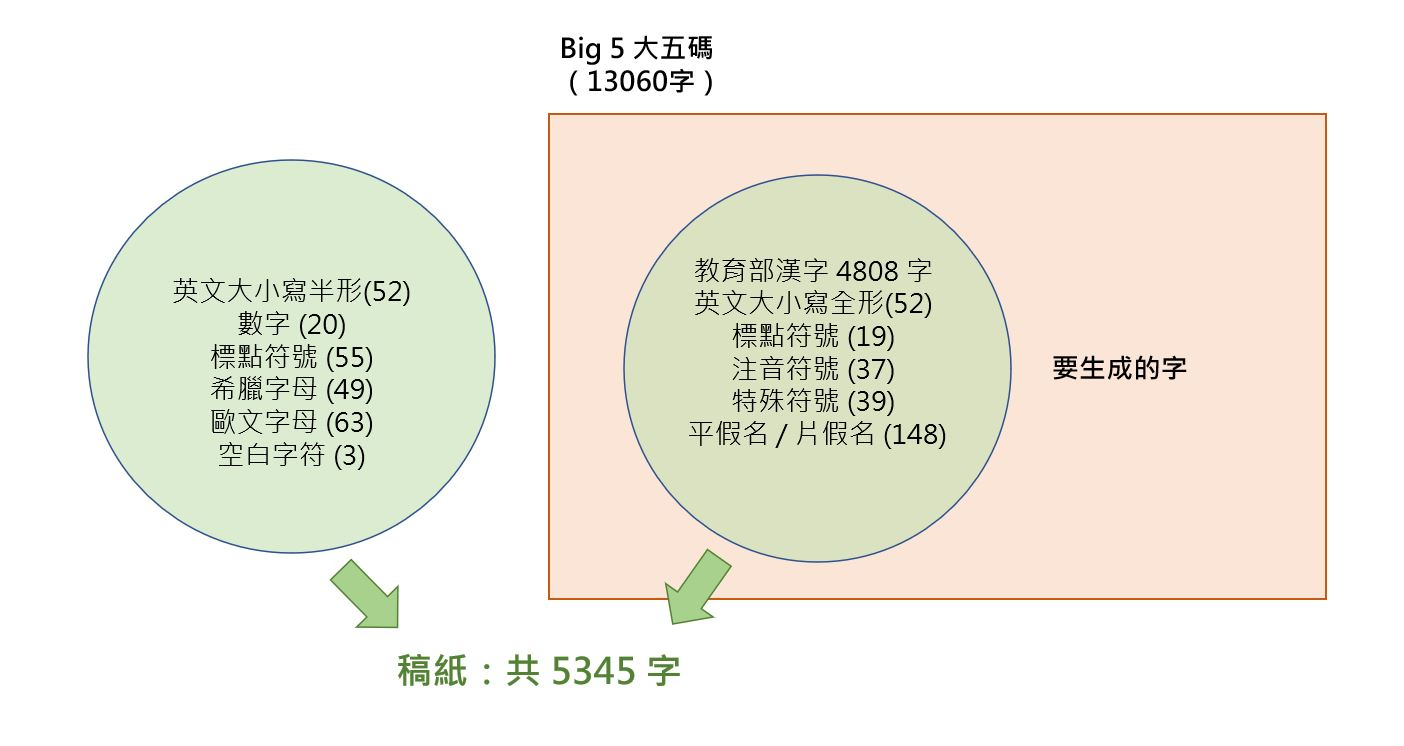
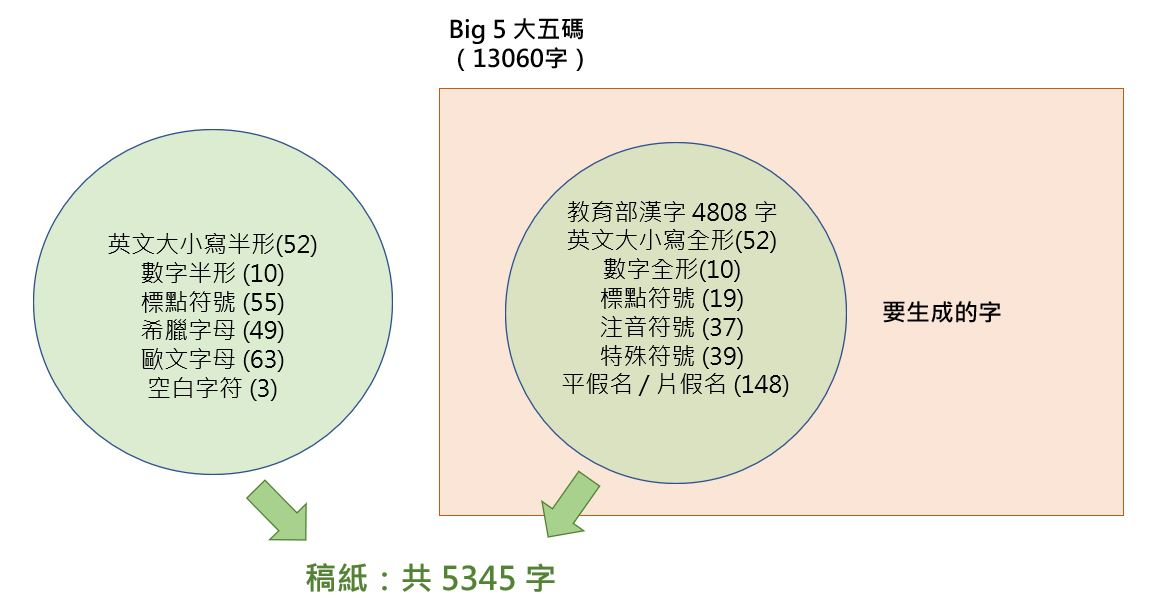
script

diff --git a/index.html b/index.html
@@ -88,46 +88,19 @@
                     <a href="chiao.ttf" class="btn btn-default btn-lg" download="chiao.ttf">
                         <span class="network-name" style="font-weight: 900;"> ct2023 製作字體下載</span>
                     </a>
-
-                    <BR><BR>
+                </div>
+                
+                <div class="col-lg-6 col-sm-6">
                     <p class="lead">zi2zi-self-attention 製作字體（2404訓練，其餘生成big5剩餘字符）</p>
                     <p class="lead">製作日期 -> 2024/06/27</p>
                     <a href="chiao.ttf" class="btn btn-default btn-lg" download="chiao.ttf">
                         <span class="network-name" style="font-weight: 900;">zi2zi-self-attention 製作字體下載</span>
                     </a>
-
-
                 </div>
 
-                <div class="col-lg-6 col-sm-6">
-                    <p class="lead">稿紙內容及生成內容</p>
-
-                    <a href="img/uands.JPG" target="_blank">
-                        <img class="img-responsive" src="img/uands.JPG" width="600">
-                    </a>
-                    <p class="lead" style="margin-top: 30px;">教育部漢字4808 </p>
-                    <p>一 丁 七 丈 三 上 下 不 丐 丑 且 丕 世 丘 丙 丞 丟 並 丫 中 串 丸 丹 主 乃 久 么 之 乍 乎 乏 乒 乓 乖 乘 乙 九 乞 也 乩 乳 乾 亂 了 予 事 二 于 云 互 五 井 亙 些 亞 亟 亡 交 亥 亦 亨 享 京 亭 亮 人 什 仁 仃 仄 仆 仇 今 介 仍 仔 仕 他 仗 付 仙 仞 仟 代 令 以 仰 仲 仳 件 任 份 仿 企 伉 伊 伍 伏 伐 休 伕 伙 伯 估 伴 伶 伸 伺 似 伽 佃 但 佇 位 低 住 佐 佑 佔 何 佗 余 佛 作 佝 佞 你 佣 佩 佬 佯 佰 佳 併 佻 佾 使 侃 來 侈 例 侍 侏 侖 供 依 侮 侯 侵 侶 便 係 促 俄 俊 俎 俏 俐 俑 俗 俘 俚 保 俞 俟 俠 信 修 俯 俱 俳 俸 俺 俾 倀 倆 倉 個 倌 倍 倏 們 倒 倔 倖 倘 候 倚 借 倡 倣 倥 倦 倨 倩 倪 倫 倭 值 偃 假 偉 偌 偎 偏 偕 做 停 健 側 偵 偶 偷 偺 偽 傀 傅 傍 傑 傖 傘 備 傢 催 傭 傯 傲 傳 債 傷 傻 傾 僅 像 僑 僕 僖 僚 僥 僧 僭 僮 僱 僵 價 僻 儀 儂 億 儈 儉 儐 儒 儔 儘 償 儡 優 儲 儷 儼 兀 允 元 兄 充 兆 兇 先 光 克 兌 免 兒 兔 兕 兗 兜 兢 入 內 全 兩 八 公 六 兮 共 兵 其 具 典 兼 冀 冉 冊 再 冑 冒 冕 冗 冠 冢 冤 冥 冬 冰 冶 冷 冽 准 凋 凌 凍 凜 凝 几 凡 凰 凱 凳 凶 凸 凹 出 函 刀 刁 刃 分 切 刈 刊 刎 刑 划 列 初 判 別 刨 利 刪 刮 到 制 刷 券 刺 刻 剁 剃 則 削 剋 剌 前 剎 剔 剖 剛 剜 剝 剩 剪 副 割 剴 創 剷 剽 剿 劃 劇 劈 劉 劍 劑 力 功 加 劣 助 努 劫 劬 劾 勁 勃 勇 勉 勒 動 勗 勘 務 勛 勝 勞 募 勢 勤 勦 勵 勸 勻 勾 勿 包 匆 匈 匍 匏 匐 匕 化 北 匙 匝 匠 匡 匣 匪 匯 匱 匹 匾 匿 區 十 千 卅 升 午 卉 半 卑 卒 卓 協 南 博 卜 卞 占 卡 卦 卮 卯 印 危 即 卵 卷 卸 卹 卻 卿 厄 厚 厝 原 厥 厭 厲 去 參 又 叉 及 友 反 叔 取 受 叛 叟 叢 口 古 句 另 叨 叩 只 叫 召 叭 叮 可 台 叱 史 右 叵 司 叼 吁 吃 各 吆 合 吉 吊 吋 同 名 后 吏 吐 向 吒 君 吝 吞 吟 吠 否 吧 吩 含 吭 吮 吱 吳 吵 吶 吸 吹 吻 吼 吾 呀 呂 呃 呆 呈 告 呎 呢 周 呱 味 呵 呶 呷 呸 呻 呼 命 咀 咄 咆 咋 和 咎 咐 咒 咕 咖 咚 咦 咨 咪 咫 咬 咯 咱 咳 咸 咻 咽 哀 品 哂 哄 哇 哈 哉 哎 員 哥 哦 哨 哩 哪 哭 哮 哲 哺 哼 唁 唆 唉 唐 唔 唧 唬 售 唯 唱 唳 唷 唸 唾 啃 啄 商 啊 問 啕 啖 啜 啞 啟 啡 啣 啤 啦 啪 啻 啼 啾 喀 喂 喃 善 喇 喉 喊 喋 喔 喘 喚 喜 喝 喟 喧 喪 喬 單 喱 喲 喳 喻 嗅 嗆 嗇 嗎 嗑 嗓 嗚 嗜 嗟 嗡 嗣 嗤 嗥 嗦 嗨 嗯 嗷 嗽 嗾 嘀 嘆 嘈 嘉 嘍 嘎 嘔 嘖 嘗 嘛 嘟 嘩 嘮 嘯 嘰 嘲 嘴 嘶 嘹 嘻 嘿 噎 噓 噗 噙 噢 噤 噥 器 噩 噪 噫 噬 噯 噱 噴 噸 噹 嚀 嚅 嚇 嚎 嚏 嚐 嚕 嚥 嚨 嚮 嚴 嚶 嚷 嚼 囀 囁 囂 囈 囉 囊 囌 囑 囚 四 回 因 囤 囪 困 固 圃 圈 國 圍 園 圓 圖 團 土 在 圬 圭 圯 地 圳 圾 址 均 坊 坍 坎 坏 坐 坑 坡 坤 坦 坩 坪 坷 坼 垂 垃 型 垠 垢 垣 垮 埂 埃 埋 城 埔 域 埠 埤 執 培 基 堂 堅 堆 堊 堡 堤 堪 堯 堰 報 場 堵 塊 塌 塑 塔 塗 塘 塚 塞 塢 填 塭 塵 塹 塾 墀 境 墅 墊 墓 墜 增 墟 墨 墮 墳 墾 壁 壅 壇 壑 壓 壕 壘 壙 壞 壟 壢 壤 壩 士 壬 壯 壹 壺 壽 夏 夔 夕 外 夙 多 夜 夠 夢 夤 夥 大 天 太 夫 夭 央 失 夷 夸 夾 奄 奇 奈 奉 奎 奏 奐 契 奔 奕 套 奘 奚 奠 奢 奧 奩 奪 奮 女 奴 奶 奸 她 好 妁 如 妃 妄 妊 妍 妒 妓 妖 妙 妝 妞 妣 妤 妥 妨 妮 妯 妳 妹 妻 妾 姆 姊 始 姍 姐 姑 姒 姓 委 姘 姚 姜 姣 姥 姦 姨 姪 姬 姻 姿 威 娃 娌 娑 娓 娘 娛 娜 娟 娠 娣 娥 娩 娶 娼 婀 婁 婆 婉 婊 婚 婢 婦 婪 婷 婿 媒 媚 媛 媲 媳 媼 媽 媾 嫁 嫂 嫉 嫌 嫖 嫗 嫘 嫡 嫣 嫦 嫩 嫵 嫻 嬉 嬋 嬌 嬝 嬤 嬪 嬰 嬴 嬸 孀 子 孑 孓 孔 孕 字 存 孚 孜 孝 孟 季 孤 孩 孫 孰 孱 孳 孵 學 孺 孽 孿 它 宅 宇 守 安 宋 完 宏 宗 官 宙 定 宛 宜 客 宣 室 宥 宦 宮 宰 害 宴 宵 家 宸 容 宿 寂 寄 寅 密 寇 富 寐 寒 寓 寞 察 寡 寢 寤 寥 實 寧 寨 審 寫 寬 寮 寵 寶 寸 寺 封 射 將 專 尉 尊 尋 對 導 小 少 尖 尚 尤 尬 就 尷 尸 尹 尺 尼 尾 尿 局 屁 居 屆 屈 屋 屍 屎 屏 屐 屑 展 屜 屠 屢 層 履 屬 屯 山 屹 岌 岐 岑 岔 岡 岩 岫 岱 岳 岷 岸 峙 峨 峪 峭 峰 島 峻 峽 崁 崆 崇 崎 崑 崔 崖 崙 崛 崢 崩 嵌 嵐 嵩 嶄 嶇 嶝 嶺 嶼 嶽 巍 巒 巔 巖 川 州 巡 巢 工 左 巧 巨 巫 差 己 已 巳 巴 巷 巽 巾 市 布 帆 希 帑 帕 帖 帘 帚 帛 帝 帥 師 席 帳 帶 帷 常 帽 幀 幅 幌 幔 幕 幗 幛 幟 幢 幣 幫 干 平 年 并 幸 幹 幻 幼 幽 幾 庇 床 序 底 庖 店 庚 府 庠 度 座 庫 庭 庵 庶 康 庸 庾 廁 廂 廈 廉 廊 廓 廖 廚 廝 廟 廠 廢 廣 廬 廳 延 廷 建 廿 弁 弄 弈 弊 式 弒 弓 弔 引 弗 弘 弛 弟 弦 弧 弩 弭 弱 張 強 弼 彆 彈 彌 彎 彗 彙 彞 形 彤 彥 彩 彪 彫 彬 彭 彰 影 彷 役 彼 彿 往 征 待 徇 很 徊 律 後 徐 徑 徒 得 徘 徙 從 御 徨 復 循 徬 微 徵 德 徹 徽 心 必 忌 忍 忖 志 忘 忙 忝 忠 快 忱 念 忽 忿 怎 怏 怒 怔 怕 怖 思 怠 怡 急 性 怨 怪 怯 怵 恃 恆 恍 恐 恕 恙 恢 恣 恤 恥 恨 恩 恪 恫 恬 恭 息 恰 恿 悄 悅 悉 悌 悍 悔 悖 悚 悟 悠 患 您 悲 悴 悵 悶 悸 悻 悼 悽 情 惆 惋 惑 惕 惘 惚 惜 惟 惠 惡 惦 惰 惱 想 惴 惶 惹 惺 惻 愀 愁 愈 愉 愎 意 愕 愚 愛 愜 感 愣 愧 愴 愾 愿 慄 慇 慈 態 慌 慍 慎 慕 慘 慚 慝 慟 慢 慣 慧 慨 慫 慮 慰 慶 慷 慼 慾 憂 憊 憎 憐 憑 憔 憚 憤 憧 憩 憫 憬 憲 憶 憾 懂 懇 懈 應 懊 懍 懣 懦 懲 懵 懶 懷 懸 懺 懼 懾 懿 戀 戈 戊 戌 戍 戎 成 我 戒 戕 或 戚 戛 戟 戡 戢 截 戮 戰 戲 戳 戴 戶 戾 房 所 扁 扇 扈 扉 手 才 扎 扒 打 扔 托 扛 扣 扭 扮 扯 扳 扶 批 扼 找 承 技 抄 抉 把 抑 抒 抓 投 抖 抗 折 抨 披 抬 抱 抵 抹 押 抽 抿 拂 拄 拆 拇 拈 拉 拋 拌 拍 拎 拐 拒 拓 拔 拖 拗 拘 拙 拚 招 拜 括 拭 拮 拯 拱 拳 拴 拷 拼 拽 拾 拿 持 指 挈 按 挑 挖 挨 挪 挫 振 挺 挽 挾 捂 捆 捉 捎 捏 捐 捕 捧 捨 捩 捫 捱 捲 捶 捷 捻 掀 掃 掄 授 掉 掌 掏 排 掖 掘 掙 掛 掠 採 探 掣 接 控 推 掩 措 掬 揀 揆 揉 揍 描 提 插 揖 揚 換 握 揣 揩 揪 揭 揮 援 損 搏 搓 搔 搖 搗 搜 搞 搪 搬 搭 搶 搽 搾 摑 摒 摔 摘 摟 摧 摩 摯 摸 摹 摺 撇 撈 撐 撒 撓 撕 撚 撞 撤 撥 撩 撫 撬 播 撮 撰 撲 撻 撼 撿 擁 擂 擄 擅 擇 擊 擋 操 擎 擒 擔 擘 據 擠 擦 擬 擰 擱 擲 擴 擺 擻 擾 攀 攆 攏 攔 攘 攙 攜 攝 攣 攤 攪 攫 攬 支 收 改 攻 放 政 故 效 敏 救 敖 敗 敘 教 敝 敞 敢 散 敦 敬 敲 整 敵 敷 數 斂 斃 文 斐 斑 斗 料 斜 斟 斡 斤 斥 斧 斫 斬 斯 新 斷 方 於 施 旁 旅 旋 旌 旎 族 旖 旗 既 日 旦 旨 早 旬 旭 旱 旺 昀 昂 昆 昌 明 昏 易 昔 星 映 春 昧 昨 昭 是 時 晃 晉 晌 晏 晒 晚 晝 晤 晦 晨 普 景 晰 晴 晶 智 暇 暈 暉 暑 暖 暗 暢 暨 暫 暮 暴 暹 曆 曉 曖 曙 曝 曠 曦 曰 曲 曳 更 曷 書 曹 曼 曾 替 最 會 月 有 朋 服 朔 朕 朗 望 朝 期 朦 朧 木 未 末 本 札 朮 朱 朴 朵 朽 杉 李 杏 材 村 杖 杜 杞 束 杭 杯 杰 東 杳 杵 杷 松 板 枇 枉 枋 析 枕 林 枚 果 枝 枯 枴 架 枸 柄 柏 某 柑 染 柔 柚 柞 查 柩 柬 柯 柱 柳 柴 柵 柿 栓 栗 校 栩 株 核 根 格 栽 桀 桂 桃 桅 框 案 桌 桐 桑 桓 桔 桶 桿 梁 梃 梅 梆 梓 梔 梗 條 梟 梢 梧 梨 梭 梯 械 梱 梳 梵 棄 棉 棋 棍 棒 棕 棗 棘 棚 棟 棠 棣 棧 森 棲 棵 棹 棺 椅 植 椎 椒 椰 楊 楓 楔 楚 楞 楠 楨 楫 業 極 楷 楹 概 榆 榔 榕 榛 榜 榨 榫 榭 榮 榴 榷 榻 槁 構 槌 槍 槐 槓 槨 槳 槽 樁 樂 樅 樊 樓 標 樞 樟 模 樣 樵 樸 樹 樺 樽 橄 橇 橋 橘 橙 機 橡 橢 橫 檀 檄 檔 檜 檢 檬 檳 檸 檻 櫂 櫃 櫓 櫚 櫛 櫝 櫥 櫻 欄 權 欖 欠 次 欣 欲 欺 欽 款 歇 歉 歌 歐 歙 歟 歡 止 正 此 步 武 歧 歪 歲 歷 歸 歹 死 歿 殃 殆 殉 殊 殖 殘 殤 殮 殯 殲 段 殷 殺 殼 殿 毀 毅 毆 毋 母 每 毒 毓 比 毗 毛 毫 毯 毽 氏 氐 民 氓 氖 氛 氟 氣 氤 氦 氧 氨 氫 氮 氯 氳 水 永 氾 汀 汁 求 汐 汕 汗 汙 汝 汞 江 池 汨 汪 汰 汲 決 汽 汾 沁 沃 沅 沈 沉 沌 沐 沒 沖 沙 沛 沫 沮 沱 河 沸 油 治 沼 沽 沾 沿 況 泄 泅 泉 泊 泌 泓 法 泗 泛 泡 波 泣 泥 注 泰 泱 泳 洋 洌 洗 洛 洞 津 洪 洱 洲 洶 活 洽 派 流 浙 浚 浦 浩 浪 浬 浮 浴 海 浸 涇 消 涉 涎 涓 涕 涮 涯 液 涵 涸 涼 淄 淅 淆 淇 淋 淌 淑 淒 淘 淙 淚 淞 淡 淤 淨 淪 淫 淮 深 淳 淵 混 淹 淺 添 清 渙 渚 減 渝 渠 渡 渣 渤 渥 渦 測 渭 港 渲 渴 游 渺 渾 湃 湊 湍 湔 湖 湘 湛 湧 湮 湯 溉 源 準 溘 溜 溝 溢 溥 溪 溫 溯 溶 溺 溼 滂 滄 滅 滇 滋 滌 滑 滓 滔 滬 滯 滲 滴 滾 滿 漁 漂 漆 漏 漓 演 漕 漠 漢 漣 漩 漪 漫 漬 漯 漱 漲 漳 漸 漾 漿 潑 潔 潘 潛 潤 潦 潭 潮 潰 潸 潺 潼 澀 澄 澆 澈 澎 澗 澡 澤 澧 澱 澳 澹 激 濁 濂 濃 濘 濛 濟 濠 濡 濤 濫 濬 濯 濱 濺 濾 瀆 瀉 瀋 瀏 瀑 瀕 瀚 瀛 瀝 瀟 瀨 瀰 瀾 灌 灑 灘 灣 灤 火 灰 灶 灸 灼 災 炊 炎 炒 炕 炙 炫 炬 炭 炮 炯 炳 炸 為 烈 烊 烏 烘 烙 烤 烹 烽 焉 焊 焙 焚 無 焦 焰 然 煉 煌 煎 煙 煜 煞 煤 煥 煦 照 煩 煬 煮 煽 熄 熊 熔 熙 熟 熨 熬 熱 熹 熾 燃 燄 燈 燉 燎 燐 燒 燕 燙 燜 營 燥 燦 燧 燬 燭 燮 燴 燻 爆 爍 爐 爛 爨 爪 爬 爭 爰 爵 父 爸 爹 爺 爻 爽 爾 牆 片 版 牌 牒 牖 牘 牙 牛 牝 牟 牠 牡 牢 牧 物 牯 牲 牴 特 牽 犀 犁 犄 犒 犖 犛 犢 犧 犬 犯 狀 狂 狄 狎 狐 狗 狙 狠 狡 狩 狷 狸 狹 狼 狽 猓 猖 猙 猛 猜 猥 猩 猴 猶 猷 猾 猿 獄 獅 獎 獐 獗 獨 獰 獲 獵 獷 獸 獺 獻 玀 玄 率 玉 王 玖 玟 玨 玩 玫 玲 玳 玷 玻 珀 珊 珍 珠 班 珮 現 球 琅 理 琉 琊 琍 琢 琥 琪 琳 琴 琵 琶 琺 琿 瑁 瑕 瑙 瑚 瑛 瑜 瑞 瑟 瑣 瑤 瑩 瑪 瑯 瑰 璃 璋 璜 璣 璦 璧 璩 環 璽 瓊 瓏 瓜 瓠 瓢 瓣 瓦 瓶 瓷 甄 甌 甕 甘 甚 甜 生 產 甥 甦 用 甩 甫 甬 甭 田 由 甲 申 男 甸 甽 界 畏 畔 留 畚 畜 畝 畢 略 畦 番 畫 異 當 畸 疆 疇 疊 疋 疏 疑 疙 疚 疝 疤 疥 疫 疲 疳 疵 疹 疼 疽 疾 病 症 痊 痔 痕 痘 痙 痛 痞 痢 痣 痰 痱 痲 痴 痺 痿 瘀 瘁 瘉 瘋 瘍 瘓 瘟 瘠 瘡 瘤 瘦 瘧 瘩 瘴 瘸 療 癆 癌 癒 癖 癘 癢 癥 癩 癬 癮 癱 癲 癸 登 發 白 百 皂 的 皆 皇 皈 皎 皓 皖 皚 皮 皰 皴 皺 皿 盂 盃 盆 盈 益 盍 盎 盒 盔 盛 盜 盞 盟 盡 監 盤 盥 盧 盪 目 盯 盲 直 相 盹 盼 盾 省 眉 看 真 眠 眨 眩 眶 眷 眸 眺 眼 眾 睏 睛 睜 睞 睡 督 睥 睦 睨 睪 睫 睬 睹 睽 睿 瞄 瞇 瞌 瞎 瞑 瞞 瞟 瞠 瞥 瞧 瞪 瞬 瞭 瞰 瞳 瞻 瞽 瞿 矇 矓 矗 矚 矛 矜 矢 矣 知 矩 短 矮 矯 石 矽 砂 砌 砍 研 砝 砥 砧 砭 砰 破 砷 砸 硃 硝 硫 硬 硯 硼 碉 碌 碎 碑 碗 碘 碟 碧 碩 碰 碳 確 碼 碾 磁 磅 磊 磋 磐 磕 磚 磨 磬 磯 磴 磷 磺 礁 礎 礙 礦 礪 礫 礬 示 社 祀 祁 祆 祇 祈 祉 祐 祕 祖 祗 祚 祝 神 祟 祠 祥 票 祭 祺 祿 禁 禍 禎 福 禦 禧 禪 禮 禱 禹 禽 禾 禿 秀 私 秉 秋 科 秒 租 秣 秤 秦 秧 秩 移 稀 稅 稈 程 稍 稔 稚 稜 稟 稠 種 稱 稷 稻 稼 稽 稿 穀 穆 穌 積 穎 穗 穡 穢 穩 穫 穴 究 穹 空 穿 突 窄 窈 窒 窕 窖 窗 窘 窟 窠 窩 窪 窮 窯 窺 竄 竅 竇 竊 立 站 竟 章 竣 童 竭 端 競 竹 竺 竽 竿 笆 笑 笙 笛 笞 笠 符 笨 第 筆 等 筋 筍 筏 筐 筒 答 策 筠 筵 筷 箋 箏 箔 箕 算 箝 管 箭 箱 箴 節 篁 範 篆 篇 築 篙 篛 篡 篤 篩 篷 篾 簇 簍 簑 簞 簡 簣 簧 簪 簫 簷 簸 簽 簾 簿 籃 籌 籍 籐 籟 籠 籤 籬 籮 籲 米 粉 粒 粗 粟 粥 粱 粳 粵 粹 粽 精 糊 糕 糖 糙 糜 糞 糟 糠 糢 糧 糯 糸 系 糾 紀 紂 約 紅 紇 紉 紊 紋 納 紐 純 紕 紗 紙 級 紛 紜 素 紡 索 紫 紮 累 細 紳 紹 紼 絀 終 絃 組 絆 結 絕 絞 絡 絢 給 絨 絮 統 絲 絹 綁 綏 綑 經 綜 綞 綠 綢 維 綰 綱 網 綴 綵 綸 綺 綻 綽 綾 綿 緇 緊 緒 緘 線 緝 緞 締 緣 編 緩 緬 緯 練 緻 縈 縊 縑 縛 縣 縫 縮 縱 縲 縷 總 績 繁 繃 繅 繆 織 繕 繚 繞 繡 繩 繪 繫 繭 繹 繼 繽 纂 續 纏 纓 纖 纜 缶 缸 缺 缽 罄 罈 罐 罔 罕 罟 罩 罪 置 罰 署 罵 罷 罹 羅 羈 羊 羋 羌 美 羔 羚 羞 群 羨 義 羯 羲 羶 羸 羹 羽 羿 翁 翅 翌 翎 習 翔 翕 翟 翠 翡 翩 翰 翱 翳 翹 翻 翼 耀 老 考 者 耆 而 耍 耐 耒 耕 耗 耘 耙 耜 耳 耶 耽 耿 聆 聊 聖 聘 聚 聞 聯 聰 聱 聲 聳 聶 職 聽 聾 聿 肄 肅 肆 肇 肉 肋 肌 肓 肖 肘 肚 肛 肝 股 肢 肥 肩 肪 肫 肯 肱 育 肴 肺 胃 胄 背 胎 胖 胚 胛 胞 胡 胤 胥 胭 胰 胱 胳 胴 胸 能 脂 脅 脆 脈 脊 脖 脣 脩 脫 脯 脹 脾 腆 腋 腎 腐 腑 腔 腕 腥 腦 腫 腮 腰 腱 腳 腸 腹 腺 腿 膀 膈 膊 膏 膚 膛 膜 膝 膠 膨 膩 膳 膺 膽 膾 膿 臀 臂 臃 臆 臉 臍 臏 臘 臚 臟 臣 臥 臧 臨 自 臬 臭 至 致 臺 臻 臼 臾 舀 舂 舅 與 興 舉 舊 舌 舍 舐 舒 舔 舛 舜 舞 舟 舢 舨 航 舫 般 舵 舶 舷 船 艇 艘 艙 艦 艮 良 艱 色 艾 芋 芍 芒 芙 芝 芟 芥 芬 芭 花 芳 芹 芻 芽 苑 苒 苓 苔 苗 苛 苜 苞 苟 苣 若 苦 苧 英 茁 茂 范 茄 茅 茉 茗 茫 茱 茲 茴 茵 茶 茸 茹 荀 草 荊 荏 荐 荒 荔 荷 荸 荻 荼 莉 莊 莎 莒 莓 莖 莘 莞 莠 莢 莫 莽 菁 菅 菊 菌 菜 菠 菩 華 菰 菱 菲 菴 菸 菽 萃 萄 萊 萋 萌 萍 萎 萬 萱 萵 萸 萼 落 葉 著 葛 葡 董 葦 葩 葫 葬 葵 葷 蒂 蒐 蒙 蒜 蒞 蒲 蒸 蒼 蒿 蓀 蓄 蓆 蓉 蓋 蓓 蓬 蓮 蓿 蔑 蔓 蔔 蔗 蔚 蔡 蔣 蔥 蔬 蔭 蔽 蕃 蕈 蕉 蕊 蕙 蕨 蕩 蕪 蕭 蕾 薄 薇 薑 薔 薛 薜 薩 薪 薯 薰 藉 藍 藏 藐 藕 藝 藤 藥 藩 藪 藹 藺 藻 蘆 蘇 蘊 蘋 蘑 蘗 蘚 蘭 蘸 蘿 虎 虐 虔 處 虛 虜 虞 號 虧 虫 虱 虹 蚊 蚌 蚓 蚣 蚤 蚩 蚪 蚯 蚱 蚵 蚶 蛀 蛄 蛆 蛇 蛋 蛔 蛙 蛛 蛟 蛤 蛭 蛹 蛻 蛾 蜀 蜂 蜃 蜇 蜈 蜓 蜘 蜜 蜢 蜥 蜴 蜻 蜿 蝌 蝕 蝗 蝙 蝠 蝦 蝨 蝴 蝶 蝸 螂 螃 融 螞 螟 螢 螫 螳 螺 螻 蟀 蟆 蟈 蟋 蟑 蟒 蟬 蟯 蟲 蟹 蟻 蠅 蠍 蠔 蠕 蠟 蠡 蠢 蠣 蠱 蠶 蠹 蠻 血 行 衍 術 街 衙 衛 衝 衡 衢 衣 表 衫 衰 衷 袁 袂 袈 袋 袍 袒 袖 袞 被 袱 裁 裂 裊 裔 裕 裘 裙 補 裝 裟 裡 裨 裳 裴 裸 裹 製 褂 複 褐 褒 褓 褚 褥 褪 褫 褲 褶 褸 褻 襄 襖 襟 襠 襤 襪 襯 襲 西 要 覃 覆 見 規 覓 視 覦 親 覬 覲 覺 覽 觀 角 解 觴 觸 言 訂 訃 計 訊 訌 討 訐 訓 訕 訖 託 記 訛 訝 訟 訣 訥 訪 設 許 訴 診 註 証 詁 詆 詐 詔 評 詛 詞 詠 詢 詣 試 詩 詫 詬 詭 詮 詰 話 該 詳 詹 詼 誅 誇 誌 認 誑 誓 誕 誘 語 誠 誡 誣 誤 誥 誦 誨 說 誰 課 誼 調 諂 諄 談 諉 請 諍 諒 論 諜 諦 諧 諫 諭 諮 諱 諷 諸 諺 諾 謀 謁 謂 謄 謊 謎 謗 謙 講 謝 謠 謨 謬 謹 譁 證 譎 譏 識 譚 譜 警 譬 譯 議 譴 護 譽 讀 變 讒 讓 讖 讚 谷 谿 豁 豆 豈 豉 豌 豎 豐 豔 豕 豚 象 豢 豪 豫 豬 豹 豺 貂 貉 貊 貌 貍 貓 貝 貞 負 財 貢 貧 貨 販 貪 貫 責 貯 貲 貳 貴 貶 買 貸 費 貼 貽 貿 賀 賁 賂 賃 賄 賅 資 賈 賊 賑 賒 賓 賜 賞 賠 賢 賣 賤 賦 質 賬 賭 賴 賺 購 賽 贅 贈 贊 贍 贏 贓 贖 贗 贛 赤 赦 赧 赫 赭 走 赳 赴 起 趁 超 越 趕 趙 趟 趣 趨 足 趴 趾 跆 跋 跌 跎 跑 跚 跛 距 跟 跡 跨 跪 路 跳 跺 跼 踏 踐 踝 踟 踢 踩 踫 踱 踴 踵 踹 蹂 蹄 蹈 蹉 蹊 蹋 蹙 蹣 蹤 蹦 蹬 蹲 蹶 蹺 蹼 躁 躂 躅 躇 躉 躊 躍 躑 躡 躪 身 躬 躲 躺 軀 車 軋 軌 軍 軒 軔 軛 軟 軸 軻 軼 軾 較 載 輊 輒 輓 輔 輕 輛 輜 輝 輟 輦 輩 輪 輯 輸 輻 輾 輿 轂 轄 轅 轉 轍 轎 轔 轟 轡 辛 辜 辟 辣 辦 辨 辭 辮 辯 辰 辱 農 迂 迄 迅 迆 迎 近 返 迢 迥 迦 迪 迫 迭 述 迴 迷 迺 追 退 送 逃 逅 逆 逍 透 逐 途 逕 逖 逗 這 通 逛 逝 逞 速 造 逢 連 逮 週 進 逵 逸 逼 逾 遁 遂 遇 遊 運 遍 過 遏 遐 遑 道 達 違 遘 遙 遜 遞 遠 遣 遨 適 遭 遮 遲 遴 遵 遷 選 遺 遼 遽 避 邀 邁 邂 還 邇 邊 邏 邐 邑 邕 邢 那 邦 邪 邱 邵 邸 郁 郊 郎 郡 部 郭 郵 都 鄂 鄉 鄒 鄙 鄧 鄭 鄰 鄱 鄹 酉 酊 酋 酌 配 酒 酗 酣 酥 酩 酪 酬 酵 酷 酸 醃 醇 醉 醋 醒 醜 醞 醣 醫 醬 醺 釀 釁 采 釉 釋 里 重 野 量 釐 金 釗 釘 釜 針 釣 釦 釧 釵 鈉 鈍 鈐 鈔 鈕 鈞 鈣 鈴 鈷 鈸 鈽 鈾 鉀 鉋 鉑 鉗 鉛 鉤 鉸 鉻 銀 銅 銓 銖 銘 銜 銬 銳 銷 銻 銼 鋁 鋅 鋒 鋤 鋪 鋸 鋼 錄 錐 錘 錚 錠 錢 錦 錨 錫 錯 錳 錶 鍊 鍋 鍍 鍛 鍥 鍬 鍰 鍵 鍾 鎂 鎊 鎔 鎖 鎢 鎮 鎳 鏃 鏈 鏍 鏑 鏖 鏗 鏘 鏜 鏝 鏟 鏡 鏢 鏤 鏽 鐃 鐘 鐮 鐲 鐳 鐵 鐸 鐺 鑄 鑑 鑒 鑠 鑣 鑰 鑲 鑼 鑽 鑾 鑿 長 門 閂 閃 閉 開 閏 閑 閒 間 閔 閘 閡 閣 閤 閥 閨 閩 閭 閱 閻 闆 闈 闊 闋 闌 闐 闔 闖 關 闡 闢 阜 阡 阪 阮 阱 防 阻 阿 陀 附 陋 陌 降 限 陛 陝 陡 院 陣 除 陪 陰 陲 陳 陴 陵 陶 陷 陸 陽 隅 隆 隊 隋 隍 階 隔 隕 隘 隙 際 障 隧 隨 險 隱 隴 隸 隻 雀 雁 雄 雅 集 雇 雉 雋 雌 雍 雕 雖 雙 雛 雜 雞 離 難 雨 雪 雯 雲 零 雷 雹 電 需 霄 霆 震 霉 霍 霎 霏 霑 霓 霖 霜 霞 霧 霪 露 霸 霹 霽 霾 靂 靄 靈 青 靖 靛 靜 非 靠 靡 面 靦 靨 革 靴 靶 靼 鞅 鞋 鞍 鞏 鞘 鞠 鞣 鞦 鞭 韁 韃 韆 韋 韌 韓 韜 韭 音 韶 韻 響 頁 頂 頃 項 順 須 頊 頌 預 頑 頒 頓 頗 領 頡 頤 頭 頰 頷 頸 頹 頻 顆 題 額 顎 顏 顓 願 顛 類 顧 顫 顯 顰 顱 風 颯 颱 颳 颶 颺 颼 飄 飛 食 飢 飧 飩 飪 飭 飯 飲 飴 飼 飽 飾 餃 餅 餉 養 餌 餐 餒 餓 餘 餛 餞 餡 館 餵 餽 餾 餿 饅 饑 饒 饜 饞 首 香 馥 馨 馬 馭 馮 馱 馳 馴 駁 駐 駑 駒 駕 駙 駛 駝 駟 駢 駭 駱 駿 騁 騎 騖 騙 騫 騰 騷 騾 驀 驃 驅 驕 驗 驚 驛 驟 驢 驥 驪 骨 骯 骰 骷 骸 骼 髏 髒 髓 體 高 髦 髭 髮 髯 髻 鬃 鬆 鬍 鬚 鬢 鬥 鬧 鬨 鬱 鬲 鬼 魁 魂 魄 魅 魏 魔 魘 魚 魯 魷 鮑 鮪 鮫 鮮 鯉 鯊 鯧 鯨 鯽 鰍 鰓 鰥 鰭 鰱 鰻 鰾 鱉 鱔 鱖 鱗 鱷 鱸 鳥 鳩 鳳 鳴 鳶 鴆 鴉 鴒 鴕 鴛 鴣 鴦 鴨 鴻 鴿 鵑 鵝 鵠 鵡 鵪 鵬 鵲 鶉 鶯 鶴 鷂 鷓 鷗 鷥 鷹 鷺 鸚 鸞 鹹 鹼 鹽 鹿 麂 麋 麒 麓 麗 麝 麟 麥 麩 麴 麵 麻 麼 麾 黃 黍 黎 黏 黑 黔 默 黛 黜 黝 點 黠 黨 黯 黴 黷 鼇 鼎 鼓 鼕 鼙 鼠 鼬 鼴 鼻 鼾 齊 齋 齒 齜 齟 齡 齣 齦 齪 齬 齲 齷 龍 龐 龔 龜 </p>
-                    <p class="lead" style="margin-top: 30px;">平假名</p>
-                    <p>あ い う え お か が き ぎ く ぐ け げ こ ご さ ざ し じ す ず せ ぜ そ ぞ た だ ち ぢ つ づ て で と ど な に ぬ ね の は ば ぱ ひ び ぴ ふ ぶ ぷ へ べ ぺ ほ ぼ ぽ ま み む め も ゃ や ゅ ゆ ょ よ ら り る れ ろ わ を ん
-                    <p class="lead" style="margin-top: 30px;">片假名</p>
-                    <p>ア イ ウ エ オ カ ガ キ ギ ク グ ケ ゲ コ ゴ サ ザ シ ジ ス ズ セ ゼ ソ ゾ タ ダ チ ヂ ツ ヅ テ デ ト ド ナ ニ ヌ ネ ノ ハ バ パ ヒ ビ ピ フ ブ プ ヘ ベ ペ ホ ボ ポ マ ミ ム メ モ ャ ヤ ュ ユ ョ ヨ ラ リ ル レ ロ ワ ヲ ン
-                    <p class="lead" style="margin-top: 30px;">注音符號</p>
-                    <p>ㄅ ㄆ ㄇ ㄈ ㄉ ㄊ ㄋ ㄌ ㄍ ㄎ ㄏ ㄐ ㄑ ㄒ ㄓ ㄔ ㄕ ㄖ ㄗ ㄘ ㄙ ㄚ ㄛ ㄜ ㄝ ㄞ ㄟ ㄠ ㄡ ㄢ ㄣ ㄤ ㄥ ㄦ ㄧ ㄨ ㄩ</p>
-                    <p class="lead" style="margin-top: 30px;">希臘字母</p>
-                    <p>Α Β Γ Δ Ε Ζ Η Θ Ι Κ Λ Μ Ν Ξ Ο Π Ρ Σ Τ Υ Φ Χ Ψ Ω α β γ δ ε ζ η θ ι κ λ μ ν ξ ο π ρ ς σ τ υ φ χ ψ ω</p>
-                    <p class="lead" style="margin-top: 30px;">特殊符號</p>
-                    <p>¡ ¢ £ ¤ ¥ ¦ § ¨ © ª « ¬  ® ¯ ° ± ² ³ ´ µ ¶ · ¸ ¹ º » ¼ ½ ¾ ¿ — ’ … ≠ ≦ ≧ ─ │ 
-                    <p class="lead" style="margin-top: 30px;">英文字母</p>  
-                    <p>A B C D E F G H I J K L M N O P Q R S T U V W X Y Z a b c d e f g h i j k l m n o p q r s t u v w x y z Ａ Ｂ Ｃ Ｄ Ｅ Ｆ Ｇ Ｈ Ｉ Ｊ Ｋ Ｌ Ｍ Ｎ Ｏ Ｐ Ｑ Ｒ Ｓ Ｔ Ｕ Ｖ Ｗ Ｘ Ｙ Ｚ　ａ ｂ ｃ ｄ ｅ ｆ ｇ ｈ ｉ ｊ ｋ ｌ ｍ ｎ ｏ ｐ ｑ ｒ ｓ ｔ ｕ ｖ ｗ ｘ ｙ ｚ</p> 
-                    <p class="lead" style="margin-top: 30px;">數字</p> 
-                    <p>0 1 2 3 4 5 6 7 8 9 ０ １ ２ ３ ４ ５ ６ ７ ８ ９</p>
-                    <p class="lead" style="margin-top: 30px;">標點符號</p> 
-                    <p>! " # $ % & ' ( ) * + , - . / : ; < = > ? @ [ \ ] ^ _ ` { | } ~ 、 。 〈 〉 《 》 「 」 『 』 ｛ ｜ ｝ ～ ︿ ﹏ ！ ＂ ＃ ＄ ％ ＆ （ ） ＊ ＋ ， － ． ／  ： ； ＜ ＝ ＞ ？ ＠</p>
-
-                </div>
             </div>
         </div>
-    </div>
+    </div>    
 
 
     <!-- Page Content -->
@@ -319,7 +292,58 @@
         <!-- /.container -->
     </div>
 
-	
+
+
+	<a name="demo6"></a>
+    <div class="content-section-a">
+        <div class="container">
+            <hr class="section-heading-spacer">
+            <h2 class="section-heading">稿紙內容及生成內容</h2>
+            <div class="row">
+
+                <div class="col-lg-12 col-sm-6">
+
+                    <a href="img/uands.JPG" target="_blank">
+                        <img class="img-responsive" src="img/uands.JPG" width="600">
+                    </a>
+                    
+                    <p class="lead" style="margin-top: 30px;">平假名</p>
+                    <p>あ い う え お か が き ぎ く ぐ け げ こ ご さ ざ し じ す ず せ ぜ そ ぞ た だ ち ぢ つ づ て で と ど な に ぬ ね の は ば ぱ ひ び ぴ ふ ぶ ぷ へ べ ぺ ほ ぼ ぽ ま み む め も ゃ や ゅ ゆ ょ よ ら り る れ ろ わ を ん
+
+                    <p class="lead" style="margin-top: 30px;">片假名</p>
+                    <p>ア イ ウ エ オ カ ガ キ ギ ク グ ケ ゲ コ ゴ サ ザ シ ジ ス ズ セ ゼ ソ ゾ タ ダ チ ヂ ツ ヅ テ デ ト ド ナ ニ ヌ ネ ノ ハ バ パ ヒ ビ ピ フ ブ プ ヘ ベ ペ ホ ボ ポ マ ミ ム メ モ ャ ヤ ュ ユ ョ ヨ ラ リ ル レ ロ ワ ヲ ン
+
+                    <p class="lead" style="margin-top: 30px;">注音符號</p>
+                    <p>ㄅ ㄆ ㄇ ㄈ ㄉ ㄊ ㄋ ㄌ ㄍ ㄎ ㄏ ㄐ ㄑ ㄒ ㄓ ㄔ ㄕ ㄖ ㄗ ㄘ ㄙ ㄚ ㄛ ㄜ ㄝ ㄞ ㄟ ㄠ ㄡ ㄢ ㄣ ㄤ ㄥ ㄦ ㄧ ㄨ ㄩ</p>
+
+                    <p class="lead" style="margin-top: 30px;">希臘字母</p>
+                    <p>Α Β Γ Δ Ε Ζ Η Θ Ι Κ Λ Μ Ν Ξ Ο Π Ρ Σ Τ Υ Φ Χ Ψ Ω α β γ δ ε ζ η θ ι κ λ μ ν ξ ο π ρ ς σ τ υ φ χ ψ ω</p>
+
+                    <p class="lead" style="margin-top: 30px;">特殊符號</p>
+                    <p>¡ ¢ £ ¤ ¥ ¦ § ¨ © ª « ¬  ® ¯ ° ± ² ³ ´ µ ¶ · ¸ ¹ º » ¼ ½ ¾ ¿ — ’ … ≠ ≦ ≧ ─ │ 
+
+                    <p class="lead" style="margin-top: 30px;">英文字母全形</p> 
+                    <p> Ａ Ｂ Ｃ Ｄ Ｅ Ｆ Ｇ Ｈ Ｉ Ｊ Ｋ Ｌ Ｍ Ｎ Ｏ Ｐ Ｑ Ｒ Ｓ Ｔ Ｕ Ｖ Ｗ Ｘ Ｙ Ｚ　ａ ｂ ｃ ｄ ｅ ｆ ｇ ｈ ｉ ｊ ｋ ｌ ｍ ｎ ｏ ｐ ｑ ｒ ｓ ｔ ｕ ｖ ｗ ｘ ｙ ｚ</p>
+                    <p class="lead" style="margin-top: 30px;">英文字母半形</p>  
+                    <p>A B C D E F G H I J K L M N O P Q R S T U V W X Y Z a b c d e f g h i j k l m n o p q r s t u v w x y z</p> 
+
+                    <p class="lead" style="margin-top: 30px;">數字全形</p>
+                    <p> ０ １ ２ ３ ４ ５ ６ ７ ８ ９</p>
+                    <p class="lead" style="margin-top: 30px;">數字半形</p>  
+                    <p>0 1 2 3 4 5 6 7 8 9</p>
+
+                    <p class="lead" style="margin-top: 30px;">標點符號全形</p>
+                    <p>︿ ﹏ ！ ＂ ＃ ＄ ％ ＆ （ ） ＊ ＋ ， － ． ／： ； ＜ ＝ ＞ ？ ＠  ［ ＼ ］ ＿ ｛ ｜ ｝ ～</p>
+                    <p class="lead" style="margin-top: 30px;">標點符號半形</p>  
+                    <p>! " # $ % & ' ( ) * + , - . / : ; < = > ? @ [ \ ] ^ _ ` { | } ~ 、 。 〈 〉 《 》 「 」 『 』 </p>
+
+                    <p class="lead" style="margin-top: 30px;">教育部漢字4808 </p>
+                    <p>一 丁 七 丈 三 上 下 不 丐 丑 且 丕 世 丘 丙 丞 丟 並 丫 中 串 丸 丹 主 乃 久 么 之 乍 乎 乏 乒 乓 乖 乘 乙 九 乞 也 乩 乳 乾 亂 了 予 事 二 于 云 互 五 井 亙 些 亞 亟 亡 交 亥 亦 亨 享 京 亭 亮 人 什 仁 仃 仄 仆 仇 今 介 仍 仔 仕 他 仗 付 仙 仞 仟 代 令 以 仰 仲 仳 件 任 份 仿 企 伉 伊 伍 伏 伐 休 伕 伙 伯 估 伴 伶 伸 伺 似 伽 佃 但 佇 位 低 住 佐 佑 佔 何 佗 余 佛 作 佝 佞 你 佣 佩 佬 佯 佰 佳 併 佻 佾 使 侃 來 侈 例 侍 侏 侖 供 依 侮 侯 侵 侶 便 係 促 俄 俊 俎 俏 俐 俑 俗 俘 俚 保 俞 俟 俠 信 修 俯 俱 俳 俸 俺 俾 倀 倆 倉 個 倌 倍 倏 們 倒 倔 倖 倘 候 倚 借 倡 倣 倥 倦 倨 倩 倪 倫 倭 值 偃 假 偉 偌 偎 偏 偕 做 停 健 側 偵 偶 偷 偺 偽 傀 傅 傍 傑 傖 傘 備 傢 催 傭 傯 傲 傳 債 傷 傻 傾 僅 像 僑 僕 僖 僚 僥 僧 僭 僮 僱 僵 價 僻 儀 儂 億 儈 儉 儐 儒 儔 儘 償 儡 優 儲 儷 儼 兀 允 元 兄 充 兆 兇 先 光 克 兌 免 兒 兔 兕 兗 兜 兢 入 內 全 兩 八 公 六 兮 共 兵 其 具 典 兼 冀 冉 冊 再 冑 冒 冕 冗 冠 冢 冤 冥 冬 冰 冶 冷 冽 准 凋 凌 凍 凜 凝 几 凡 凰 凱 凳 凶 凸 凹 出 函 刀 刁 刃 分 切 刈 刊 刎 刑 划 列 初 判 別 刨 利 刪 刮 到 制 刷 券 刺 刻 剁 剃 則 削 剋 剌 前 剎 剔 剖 剛 剜 剝 剩 剪 副 割 剴 創 剷 剽 剿 劃 劇 劈 劉 劍 劑 力 功 加 劣 助 努 劫 劬 劾 勁 勃 勇 勉 勒 動 勗 勘 務 勛 勝 勞 募 勢 勤 勦 勵 勸 勻 勾 勿 包 匆 匈 匍 匏 匐 匕 化 北 匙 匝 匠 匡 匣 匪 匯 匱 匹 匾 匿 區 十 千 卅 升 午 卉 半 卑 卒 卓 協 南 博 卜 卞 占 卡 卦 卮 卯 印 危 即 卵 卷 卸 卹 卻 卿 厄 厚 厝 原 厥 厭 厲 去 參 又 叉 及 友 反 叔 取 受 叛 叟 叢 口 古 句 另 叨 叩 只 叫 召 叭 叮 可 台 叱 史 右 叵 司 叼 吁 吃 各 吆 合 吉 吊 吋 同 名 后 吏 吐 向 吒 君 吝 吞 吟 吠 否 吧 吩 含 吭 吮 吱 吳 吵 吶 吸 吹 吻 吼 吾 呀 呂 呃 呆 呈 告 呎 呢 周 呱 味 呵 呶 呷 呸 呻 呼 命 咀 咄 咆 咋 和 咎 咐 咒 咕 咖 咚 咦 咨 咪 咫 咬 咯 咱 咳 咸 咻 咽 哀 品 哂 哄 哇 哈 哉 哎 員 哥 哦 哨 哩 哪 哭 哮 哲 哺 哼 唁 唆 唉 唐 唔 唧 唬 售 唯 唱 唳 唷 唸 唾 啃 啄 商 啊 問 啕 啖 啜 啞 啟 啡 啣 啤 啦 啪 啻 啼 啾 喀 喂 喃 善 喇 喉 喊 喋 喔 喘 喚 喜 喝 喟 喧 喪 喬 單 喱 喲 喳 喻 嗅 嗆 嗇 嗎 嗑 嗓 嗚 嗜 嗟 嗡 嗣 嗤 嗥 嗦 嗨 嗯 嗷 嗽 嗾 嘀 嘆 嘈 嘉 嘍 嘎 嘔 嘖 嘗 嘛 嘟 嘩 嘮 嘯 嘰 嘲 嘴 嘶 嘹 嘻 嘿 噎 噓 噗 噙 噢 噤 噥 器 噩 噪 噫 噬 噯 噱 噴 噸 噹 嚀 嚅 嚇 嚎 嚏 嚐 嚕 嚥 嚨 嚮 嚴 嚶 嚷 嚼 囀 囁 囂 囈 囉 囊 囌 囑 囚 四 回 因 囤 囪 困 固 圃 圈 國 圍 園 圓 圖 團 土 在 圬 圭 圯 地 圳 圾 址 均 坊 坍 坎 坏 坐 坑 坡 坤 坦 坩 坪 坷 坼 垂 垃 型 垠 垢 垣 垮 埂 埃 埋 城 埔 域 埠 埤 執 培 基 堂 堅 堆 堊 堡 堤 堪 堯 堰 報 場 堵 塊 塌 塑 塔 塗 塘 塚 塞 塢 填 塭 塵 塹 塾 墀 境 墅 墊 墓 墜 增 墟 墨 墮 墳 墾 壁 壅 壇 壑 壓 壕 壘 壙 壞 壟 壢 壤 壩 士 壬 壯 壹 壺 壽 夏 夔 夕 外 夙 多 夜 夠 夢 夤 夥 大 天 太 夫 夭 央 失 夷 夸 夾 奄 奇 奈 奉 奎 奏 奐 契 奔 奕 套 奘 奚 奠 奢 奧 奩 奪 奮 女 奴 奶 奸 她 好 妁 如 妃 妄 妊 妍 妒 妓 妖 妙 妝 妞 妣 妤 妥 妨 妮 妯 妳 妹 妻 妾 姆 姊 始 姍 姐 姑 姒 姓 委 姘 姚 姜 姣 姥 姦 姨 姪 姬 姻 姿 威 娃 娌 娑 娓 娘 娛 娜 娟 娠 娣 娥 娩 娶 娼 婀 婁 婆 婉 婊 婚 婢 婦 婪 婷 婿 媒 媚 媛 媲 媳 媼 媽 媾 嫁 嫂 嫉 嫌 嫖 嫗 嫘 嫡 嫣 嫦 嫩 嫵 嫻 嬉 嬋 嬌 嬝 嬤 嬪 嬰 嬴 嬸 孀 子 孑 孓 孔 孕 字 存 孚 孜 孝 孟 季 孤 孩 孫 孰 孱 孳 孵 學 孺 孽 孿 它 宅 宇 守 安 宋 完 宏 宗 官 宙 定 宛 宜 客 宣 室 宥 宦 宮 宰 害 宴 宵 家 宸 容 宿 寂 寄 寅 密 寇 富 寐 寒 寓 寞 察 寡 寢 寤 寥 實 寧 寨 審 寫 寬 寮 寵 寶 寸 寺 封 射 將 專 尉 尊 尋 對 導 小 少 尖 尚 尤 尬 就 尷 尸 尹 尺 尼 尾 尿 局 屁 居 屆 屈 屋 屍 屎 屏 屐 屑 展 屜 屠 屢 層 履 屬 屯 山 屹 岌 岐 岑 岔 岡 岩 岫 岱 岳 岷 岸 峙 峨 峪 峭 峰 島 峻 峽 崁 崆 崇 崎 崑 崔 崖 崙 崛 崢 崩 嵌 嵐 嵩 嶄 嶇 嶝 嶺 嶼 嶽 巍 巒 巔 巖 川 州 巡 巢 工 左 巧 巨 巫 差 己 已 巳 巴 巷 巽 巾 市 布 帆 希 帑 帕 帖 帘 帚 帛 帝 帥 師 席 帳 帶 帷 常 帽 幀 幅 幌 幔 幕 幗 幛 幟 幢 幣 幫 干 平 年 并 幸 幹 幻 幼 幽 幾 庇 床 序 底 庖 店 庚 府 庠 度 座 庫 庭 庵 庶 康 庸 庾 廁 廂 廈 廉 廊 廓 廖 廚 廝 廟 廠 廢 廣 廬 廳 延 廷 建 廿 弁 弄 弈 弊 式 弒 弓 弔 引 弗 弘 弛 弟 弦 弧 弩 弭 弱 張 強 弼 彆 彈 彌 彎 彗 彙 彞 形 彤 彥 彩 彪 彫 彬 彭 彰 影 彷 役 彼 彿 往 征 待 徇 很 徊 律 後 徐 徑 徒 得 徘 徙 從 御 徨 復 循 徬 微 徵 德 徹 徽 心 必 忌 忍 忖 志 忘 忙 忝 忠 快 忱 念 忽 忿 怎 怏 怒 怔 怕 怖 思 怠 怡 急 性 怨 怪 怯 怵 恃 恆 恍 恐 恕 恙 恢 恣 恤 恥 恨 恩 恪 恫 恬 恭 息 恰 恿 悄 悅 悉 悌 悍 悔 悖 悚 悟 悠 患 您 悲 悴 悵 悶 悸 悻 悼 悽 情 惆 惋 惑 惕 惘 惚 惜 惟 惠 惡 惦 惰 惱 想 惴 惶 惹 惺 惻 愀 愁 愈 愉 愎 意 愕 愚 愛 愜 感 愣 愧 愴 愾 愿 慄 慇 慈 態 慌 慍 慎 慕 慘 慚 慝 慟 慢 慣 慧 慨 慫 慮 慰 慶 慷 慼 慾 憂 憊 憎 憐 憑 憔 憚 憤 憧 憩 憫 憬 憲 憶 憾 懂 懇 懈 應 懊 懍 懣 懦 懲 懵 懶 懷 懸 懺 懼 懾 懿 戀 戈 戊 戌 戍 戎 成 我 戒 戕 或 戚 戛 戟 戡 戢 截 戮 戰 戲 戳 戴 戶 戾 房 所 扁 扇 扈 扉 手 才 扎 扒 打 扔 托 扛 扣 扭 扮 扯 扳 扶 批 扼 找 承 技 抄 抉 把 抑 抒 抓 投 抖 抗 折 抨 披 抬 抱 抵 抹 押 抽 抿 拂 拄 拆 拇 拈 拉 拋 拌 拍 拎 拐 拒 拓 拔 拖 拗 拘 拙 拚 招 拜 括 拭 拮 拯 拱 拳 拴 拷 拼 拽 拾 拿 持 指 挈 按 挑 挖 挨 挪 挫 振 挺 挽 挾 捂 捆 捉 捎 捏 捐 捕 捧 捨 捩 捫 捱 捲 捶 捷 捻 掀 掃 掄 授 掉 掌 掏 排 掖 掘 掙 掛 掠 採 探 掣 接 控 推 掩 措 掬 揀 揆 揉 揍 描 提 插 揖 揚 換 握 揣 揩 揪 揭 揮 援 損 搏 搓 搔 搖 搗 搜 搞 搪 搬 搭 搶 搽 搾 摑 摒 摔 摘 摟 摧 摩 摯 摸 摹 摺 撇 撈 撐 撒 撓 撕 撚 撞 撤 撥 撩 撫 撬 播 撮 撰 撲 撻 撼 撿 擁 擂 擄 擅 擇 擊 擋 操 擎 擒 擔 擘 據 擠 擦 擬 擰 擱 擲 擴 擺 擻 擾 攀 攆 攏 攔 攘 攙 攜 攝 攣 攤 攪 攫 攬 支 收 改 攻 放 政 故 效 敏 救 敖 敗 敘 教 敝 敞 敢 散 敦 敬 敲 整 敵 敷 數 斂 斃 文 斐 斑 斗 料 斜 斟 斡 斤 斥 斧 斫 斬 斯 新 斷 方 於 施 旁 旅 旋 旌 旎 族 旖 旗 既 日 旦 旨 早 旬 旭 旱 旺 昀 昂 昆 昌 明 昏 易 昔 星 映 春 昧 昨 昭 是 時 晃 晉 晌 晏 晒 晚 晝 晤 晦 晨 普 景 晰 晴 晶 智 暇 暈 暉 暑 暖 暗 暢 暨 暫 暮 暴 暹 曆 曉 曖 曙 曝 曠 曦 曰 曲 曳 更 曷 書 曹 曼 曾 替 最 會 月 有 朋 服 朔 朕 朗 望 朝 期 朦 朧 木 未 末 本 札 朮 朱 朴 朵 朽 杉 李 杏 材 村 杖 杜 杞 束 杭 杯 杰 東 杳 杵 杷 松 板 枇 枉 枋 析 枕 林 枚 果 枝 枯 枴 架 枸 柄 柏 某 柑 染 柔 柚 柞 查 柩 柬 柯 柱 柳 柴 柵 柿 栓 栗 校 栩 株 核 根 格 栽 桀 桂 桃 桅 框 案 桌 桐 桑 桓 桔 桶 桿 梁 梃 梅 梆 梓 梔 梗 條 梟 梢 梧 梨 梭 梯 械 梱 梳 梵 棄 棉 棋 棍 棒 棕 棗 棘 棚 棟 棠 棣 棧 森 棲 棵 棹 棺 椅 植 椎 椒 椰 楊 楓 楔 楚 楞 楠 楨 楫 業 極 楷 楹 概 榆 榔 榕 榛 榜 榨 榫 榭 榮 榴 榷 榻 槁 構 槌 槍 槐 槓 槨 槳 槽 樁 樂 樅 樊 樓 標 樞 樟 模 樣 樵 樸 樹 樺 樽 橄 橇 橋 橘 橙 機 橡 橢 橫 檀 檄 檔 檜 檢 檬 檳 檸 檻 櫂 櫃 櫓 櫚 櫛 櫝 櫥 櫻 欄 權 欖 欠 次 欣 欲 欺 欽 款 歇 歉 歌 歐 歙 歟 歡 止 正 此 步 武 歧 歪 歲 歷 歸 歹 死 歿 殃 殆 殉 殊 殖 殘 殤 殮 殯 殲 段 殷 殺 殼 殿 毀 毅 毆 毋 母 每 毒 毓 比 毗 毛 毫 毯 毽 氏 氐 民 氓 氖 氛 氟 氣 氤 氦 氧 氨 氫 氮 氯 氳 水 永 氾 汀 汁 求 汐 汕 汗 汙 汝 汞 江 池 汨 汪 汰 汲 決 汽 汾 沁 沃 沅 沈 沉 沌 沐 沒 沖 沙 沛 沫 沮 沱 河 沸 油 治 沼 沽 沾 沿 況 泄 泅 泉 泊 泌 泓 法 泗 泛 泡 波 泣 泥 注 泰 泱 泳 洋 洌 洗 洛 洞 津 洪 洱 洲 洶 活 洽 派 流 浙 浚 浦 浩 浪 浬 浮 浴 海 浸 涇 消 涉 涎 涓 涕 涮 涯 液 涵 涸 涼 淄 淅 淆 淇 淋 淌 淑 淒 淘 淙 淚 淞 淡 淤 淨 淪 淫 淮 深 淳 淵 混 淹 淺 添 清 渙 渚 減 渝 渠 渡 渣 渤 渥 渦 測 渭 港 渲 渴 游 渺 渾 湃 湊 湍 湔 湖 湘 湛 湧 湮 湯 溉 源 準 溘 溜 溝 溢 溥 溪 溫 溯 溶 溺 溼 滂 滄 滅 滇 滋 滌 滑 滓 滔 滬 滯 滲 滴 滾 滿 漁 漂 漆 漏 漓 演 漕 漠 漢 漣 漩 漪 漫 漬 漯 漱 漲 漳 漸 漾 漿 潑 潔 潘 潛 潤 潦 潭 潮 潰 潸 潺 潼 澀 澄 澆 澈 澎 澗 澡 澤 澧 澱 澳 澹 激 濁 濂 濃 濘 濛 濟 濠 濡 濤 濫 濬 濯 濱 濺 濾 瀆 瀉 瀋 瀏 瀑 瀕 瀚 瀛 瀝 瀟 瀨 瀰 瀾 灌 灑 灘 灣 灤 火 灰 灶 灸 灼 災 炊 炎 炒 炕 炙 炫 炬 炭 炮 炯 炳 炸 為 烈 烊 烏 烘 烙 烤 烹 烽 焉 焊 焙 焚 無 焦 焰 然 煉 煌 煎 煙 煜 煞 煤 煥 煦 照 煩 煬 煮 煽 熄 熊 熔 熙 熟 熨 熬 熱 熹 熾 燃 燄 燈 燉 燎 燐 燒 燕 燙 燜 營 燥 燦 燧 燬 燭 燮 燴 燻 爆 爍 爐 爛 爨 爪 爬 爭 爰 爵 父 爸 爹 爺 爻 爽 爾 牆 片 版 牌 牒 牖 牘 牙 牛 牝 牟 牠 牡 牢 牧 物 牯 牲 牴 特 牽 犀 犁 犄 犒 犖 犛 犢 犧 犬 犯 狀 狂 狄 狎 狐 狗 狙 狠 狡 狩 狷 狸 狹 狼 狽 猓 猖 猙 猛 猜 猥 猩 猴 猶 猷 猾 猿 獄 獅 獎 獐 獗 獨 獰 獲 獵 獷 獸 獺 獻 玀 玄 率 玉 王 玖 玟 玨 玩 玫 玲 玳 玷 玻 珀 珊 珍 珠 班 珮 現 球 琅 理 琉 琊 琍 琢 琥 琪 琳 琴 琵 琶 琺 琿 瑁 瑕 瑙 瑚 瑛 瑜 瑞 瑟 瑣 瑤 瑩 瑪 瑯 瑰 璃 璋 璜 璣 璦 璧 璩 環 璽 瓊 瓏 瓜 瓠 瓢 瓣 瓦 瓶 瓷 甄 甌 甕 甘 甚 甜 生 產 甥 甦 用 甩 甫 甬 甭 田 由 甲 申 男 甸 甽 界 畏 畔 留 畚 畜 畝 畢 略 畦 番 畫 異 當 畸 疆 疇 疊 疋 疏 疑 疙 疚 疝 疤 疥 疫 疲 疳 疵 疹 疼 疽 疾 病 症 痊 痔 痕 痘 痙 痛 痞 痢 痣 痰 痱 痲 痴 痺 痿 瘀 瘁 瘉 瘋 瘍 瘓 瘟 瘠 瘡 瘤 瘦 瘧 瘩 瘴 瘸 療 癆 癌 癒 癖 癘 癢 癥 癩 癬 癮 癱 癲 癸 登 發 白 百 皂 的 皆 皇 皈 皎 皓 皖 皚 皮 皰 皴 皺 皿 盂 盃 盆 盈 益 盍 盎 盒 盔 盛 盜 盞 盟 盡 監 盤 盥 盧 盪 目 盯 盲 直 相 盹 盼 盾 省 眉 看 真 眠 眨 眩 眶 眷 眸 眺 眼 眾 睏 睛 睜 睞 睡 督 睥 睦 睨 睪 睫 睬 睹 睽 睿 瞄 瞇 瞌 瞎 瞑 瞞 瞟 瞠 瞥 瞧 瞪 瞬 瞭 瞰 瞳 瞻 瞽 瞿 矇 矓 矗 矚 矛 矜 矢 矣 知 矩 短 矮 矯 石 矽 砂 砌 砍 研 砝 砥 砧 砭 砰 破 砷 砸 硃 硝 硫 硬 硯 硼 碉 碌 碎 碑 碗 碘 碟 碧 碩 碰 碳 確 碼 碾 磁 磅 磊 磋 磐 磕 磚 磨 磬 磯 磴 磷 磺 礁 礎 礙 礦 礪 礫 礬 示 社 祀 祁 祆 祇 祈 祉 祐 祕 祖 祗 祚 祝 神 祟 祠 祥 票 祭 祺 祿 禁 禍 禎 福 禦 禧 禪 禮 禱 禹 禽 禾 禿 秀 私 秉 秋 科 秒 租 秣 秤 秦 秧 秩 移 稀 稅 稈 程 稍 稔 稚 稜 稟 稠 種 稱 稷 稻 稼 稽 稿 穀 穆 穌 積 穎 穗 穡 穢 穩 穫 穴 究 穹 空 穿 突 窄 窈 窒 窕 窖 窗 窘 窟 窠 窩 窪 窮 窯 窺 竄 竅 竇 竊 立 站 竟 章 竣 童 竭 端 競 竹 竺 竽 竿 笆 笑 笙 笛 笞 笠 符 笨 第 筆 等 筋 筍 筏 筐 筒 答 策 筠 筵 筷 箋 箏 箔 箕 算 箝 管 箭 箱 箴 節 篁 範 篆 篇 築 篙 篛 篡 篤 篩 篷 篾 簇 簍 簑 簞 簡 簣 簧 簪 簫 簷 簸 簽 簾 簿 籃 籌 籍 籐 籟 籠 籤 籬 籮 籲 米 粉 粒 粗 粟 粥 粱 粳 粵 粹 粽 精 糊 糕 糖 糙 糜 糞 糟 糠 糢 糧 糯 糸 系 糾 紀 紂 約 紅 紇 紉 紊 紋 納 紐 純 紕 紗 紙 級 紛 紜 素 紡 索 紫 紮 累 細 紳 紹 紼 絀 終 絃 組 絆 結 絕 絞 絡 絢 給 絨 絮 統 絲 絹 綁 綏 綑 經 綜 綞 綠 綢 維 綰 綱 網 綴 綵 綸 綺 綻 綽 綾 綿 緇 緊 緒 緘 線 緝 緞 締 緣 編 緩 緬 緯 練 緻 縈 縊 縑 縛 縣 縫 縮 縱 縲 縷 總 績 繁 繃 繅 繆 織 繕 繚 繞 繡 繩 繪 繫 繭 繹 繼 繽 纂 續 纏 纓 纖 纜 缶 缸 缺 缽 罄 罈 罐 罔 罕 罟 罩 罪 置 罰 署 罵 罷 罹 羅 羈 羊 羋 羌 美 羔 羚 羞 群 羨 義 羯 羲 羶 羸 羹 羽 羿 翁 翅 翌 翎 習 翔 翕 翟 翠 翡 翩 翰 翱 翳 翹 翻 翼 耀 老 考 者 耆 而 耍 耐 耒 耕 耗 耘 耙 耜 耳 耶 耽 耿 聆 聊 聖 聘 聚 聞 聯 聰 聱 聲 聳 聶 職 聽 聾 聿 肄 肅 肆 肇 肉 肋 肌 肓 肖 肘 肚 肛 肝 股 肢 肥 肩 肪 肫 肯 肱 育 肴 肺 胃 胄 背 胎 胖 胚 胛 胞 胡 胤 胥 胭 胰 胱 胳 胴 胸 能 脂 脅 脆 脈 脊 脖 脣 脩 脫 脯 脹 脾 腆 腋 腎 腐 腑 腔 腕 腥 腦 腫 腮 腰 腱 腳 腸 腹 腺 腿 膀 膈 膊 膏 膚 膛 膜 膝 膠 膨 膩 膳 膺 膽 膾 膿 臀 臂 臃 臆 臉 臍 臏 臘 臚 臟 臣 臥 臧 臨 自 臬 臭 至 致 臺 臻 臼 臾 舀 舂 舅 與 興 舉 舊 舌 舍 舐 舒 舔 舛 舜 舞 舟 舢 舨 航 舫 般 舵 舶 舷 船 艇 艘 艙 艦 艮 良 艱 色 艾 芋 芍 芒 芙 芝 芟 芥 芬 芭 花 芳 芹 芻 芽 苑 苒 苓 苔 苗 苛 苜 苞 苟 苣 若 苦 苧 英 茁 茂 范 茄 茅 茉 茗 茫 茱 茲 茴 茵 茶 茸 茹 荀 草 荊 荏 荐 荒 荔 荷 荸 荻 荼 莉 莊 莎 莒 莓 莖 莘 莞 莠 莢 莫 莽 菁 菅 菊 菌 菜 菠 菩 華 菰 菱 菲 菴 菸 菽 萃 萄 萊 萋 萌 萍 萎 萬 萱 萵 萸 萼 落 葉 著 葛 葡 董 葦 葩 葫 葬 葵 葷 蒂 蒐 蒙 蒜 蒞 蒲 蒸 蒼 蒿 蓀 蓄 蓆 蓉 蓋 蓓 蓬 蓮 蓿 蔑 蔓 蔔 蔗 蔚 蔡 蔣 蔥 蔬 蔭 蔽 蕃 蕈 蕉 蕊 蕙 蕨 蕩 蕪 蕭 蕾 薄 薇 薑 薔 薛 薜 薩 薪 薯 薰 藉 藍 藏 藐 藕 藝 藤 藥 藩 藪 藹 藺 藻 蘆 蘇 蘊 蘋 蘑 蘗 蘚 蘭 蘸 蘿 虎 虐 虔 處 虛 虜 虞 號 虧 虫 虱 虹 蚊 蚌 蚓 蚣 蚤 蚩 蚪 蚯 蚱 蚵 蚶 蛀 蛄 蛆 蛇 蛋 蛔 蛙 蛛 蛟 蛤 蛭 蛹 蛻 蛾 蜀 蜂 蜃 蜇 蜈 蜓 蜘 蜜 蜢 蜥 蜴 蜻 蜿 蝌 蝕 蝗 蝙 蝠 蝦 蝨 蝴 蝶 蝸 螂 螃 融 螞 螟 螢 螫 螳 螺 螻 蟀 蟆 蟈 蟋 蟑 蟒 蟬 蟯 蟲 蟹 蟻 蠅 蠍 蠔 蠕 蠟 蠡 蠢 蠣 蠱 蠶 蠹 蠻 血 行 衍 術 街 衙 衛 衝 衡 衢 衣 表 衫 衰 衷 袁 袂 袈 袋 袍 袒 袖 袞 被 袱 裁 裂 裊 裔 裕 裘 裙 補 裝 裟 裡 裨 裳 裴 裸 裹 製 褂 複 褐 褒 褓 褚 褥 褪 褫 褲 褶 褸 褻 襄 襖 襟 襠 襤 襪 襯 襲 西 要 覃 覆 見 規 覓 視 覦 親 覬 覲 覺 覽 觀 角 解 觴 觸 言 訂 訃 計 訊 訌 討 訐 訓 訕 訖 託 記 訛 訝 訟 訣 訥 訪 設 許 訴 診 註 証 詁 詆 詐 詔 評 詛 詞 詠 詢 詣 試 詩 詫 詬 詭 詮 詰 話 該 詳 詹 詼 誅 誇 誌 認 誑 誓 誕 誘 語 誠 誡 誣 誤 誥 誦 誨 說 誰 課 誼 調 諂 諄 談 諉 請 諍 諒 論 諜 諦 諧 諫 諭 諮 諱 諷 諸 諺 諾 謀 謁 謂 謄 謊 謎 謗 謙 講 謝 謠 謨 謬 謹 譁 證 譎 譏 識 譚 譜 警 譬 譯 議 譴 護 譽 讀 變 讒 讓 讖 讚 谷 谿 豁 豆 豈 豉 豌 豎 豐 豔 豕 豚 象 豢 豪 豫 豬 豹 豺 貂 貉 貊 貌 貍 貓 貝 貞 負 財 貢 貧 貨 販 貪 貫 責 貯 貲 貳 貴 貶 買 貸 費 貼 貽 貿 賀 賁 賂 賃 賄 賅 資 賈 賊 賑 賒 賓 賜 賞 賠 賢 賣 賤 賦 質 賬 賭 賴 賺 購 賽 贅 贈 贊 贍 贏 贓 贖 贗 贛 赤 赦 赧 赫 赭 走 赳 赴 起 趁 超 越 趕 趙 趟 趣 趨 足 趴 趾 跆 跋 跌 跎 跑 跚 跛 距 跟 跡 跨 跪 路 跳 跺 跼 踏 踐 踝 踟 踢 踩 踫 踱 踴 踵 踹 蹂 蹄 蹈 蹉 蹊 蹋 蹙 蹣 蹤 蹦 蹬 蹲 蹶 蹺 蹼 躁 躂 躅 躇 躉 躊 躍 躑 躡 躪 身 躬 躲 躺 軀 車 軋 軌 軍 軒 軔 軛 軟 軸 軻 軼 軾 較 載 輊 輒 輓 輔 輕 輛 輜 輝 輟 輦 輩 輪 輯 輸 輻 輾 輿 轂 轄 轅 轉 轍 轎 轔 轟 轡 辛 辜 辟 辣 辦 辨 辭 辮 辯 辰 辱 農 迂 迄 迅 迆 迎 近 返 迢 迥 迦 迪 迫 迭 述 迴 迷 迺 追 退 送 逃 逅 逆 逍 透 逐 途 逕 逖 逗 這 通 逛 逝 逞 速 造 逢 連 逮 週 進 逵 逸 逼 逾 遁 遂 遇 遊 運 遍 過 遏 遐 遑 道 達 違 遘 遙 遜 遞 遠 遣 遨 適 遭 遮 遲 遴 遵 遷 選 遺 遼 遽 避 邀 邁 邂 還 邇 邊 邏 邐 邑 邕 邢 那 邦 邪 邱 邵 邸 郁 郊 郎 郡 部 郭 郵 都 鄂 鄉 鄒 鄙 鄧 鄭 鄰 鄱 鄹 酉 酊 酋 酌 配 酒 酗 酣 酥 酩 酪 酬 酵 酷 酸 醃 醇 醉 醋 醒 醜 醞 醣 醫 醬 醺 釀 釁 采 釉 釋 里 重 野 量 釐 金 釗 釘 釜 針 釣 釦 釧 釵 鈉 鈍 鈐 鈔 鈕 鈞 鈣 鈴 鈷 鈸 鈽 鈾 鉀 鉋 鉑 鉗 鉛 鉤 鉸 鉻 銀 銅 銓 銖 銘 銜 銬 銳 銷 銻 銼 鋁 鋅 鋒 鋤 鋪 鋸 鋼 錄 錐 錘 錚 錠 錢 錦 錨 錫 錯 錳 錶 鍊 鍋 鍍 鍛 鍥 鍬 鍰 鍵 鍾 鎂 鎊 鎔 鎖 鎢 鎮 鎳 鏃 鏈 鏍 鏑 鏖 鏗 鏘 鏜 鏝 鏟 鏡 鏢 鏤 鏽 鐃 鐘 鐮 鐲 鐳 鐵 鐸 鐺 鑄 鑑 鑒 鑠 鑣 鑰 鑲 鑼 鑽 鑾 鑿 長 門 閂 閃 閉 開 閏 閑 閒 間 閔 閘 閡 閣 閤 閥 閨 閩 閭 閱 閻 闆 闈 闊 闋 闌 闐 闔 闖 關 闡 闢 阜 阡 阪 阮 阱 防 阻 阿 陀 附 陋 陌 降 限 陛 陝 陡 院 陣 除 陪 陰 陲 陳 陴 陵 陶 陷 陸 陽 隅 隆 隊 隋 隍 階 隔 隕 隘 隙 際 障 隧 隨 險 隱 隴 隸 隻 雀 雁 雄 雅 集 雇 雉 雋 雌 雍 雕 雖 雙 雛 雜 雞 離 難 雨 雪 雯 雲 零 雷 雹 電 需 霄 霆 震 霉 霍 霎 霏 霑 霓 霖 霜 霞 霧 霪 露 霸 霹 霽 霾 靂 靄 靈 青 靖 靛 靜 非 靠 靡 面 靦 靨 革 靴 靶 靼 鞅 鞋 鞍 鞏 鞘 鞠 鞣 鞦 鞭 韁 韃 韆 韋 韌 韓 韜 韭 音 韶 韻 響 頁 頂 頃 項 順 須 頊 頌 預 頑 頒 頓 頗 領 頡 頤 頭 頰 頷 頸 頹 頻 顆 題 額 顎 顏 顓 願 顛 類 顧 顫 顯 顰 顱 風 颯 颱 颳 颶 颺 颼 飄 飛 食 飢 飧 飩 飪 飭 飯 飲 飴 飼 飽 飾 餃 餅 餉 養 餌 餐 餒 餓 餘 餛 餞 餡 館 餵 餽 餾 餿 饅 饑 饒 饜 饞 首 香 馥 馨 馬 馭 馮 馱 馳 馴 駁 駐 駑 駒 駕 駙 駛 駝 駟 駢 駭 駱 駿 騁 騎 騖 騙 騫 騰 騷 騾 驀 驃 驅 驕 驗 驚 驛 驟 驢 驥 驪 骨 骯 骰 骷 骸 骼 髏 髒 髓 體 高 髦 髭 髮 髯 髻 鬃 鬆 鬍 鬚 鬢 鬥 鬧 鬨 鬱 鬲 鬼 魁 魂 魄 魅 魏 魔 魘 魚 魯 魷 鮑 鮪 鮫 鮮 鯉 鯊 鯧 鯨 鯽 鰍 鰓 鰥 鰭 鰱 鰻 鰾 鱉 鱔 鱖 鱗 鱷 鱸 鳥 鳩 鳳 鳴 鳶 鴆 鴉 鴒 鴕 鴛 鴣 鴦 鴨 鴻 鴿 鵑 鵝 鵠 鵡 鵪 鵬 鵲 鶉 鶯 鶴 鷂 鷓 鷗 鷥 鷹 鷺 鸚 鸞 鹹 鹼 鹽 鹿 麂 麋 麒 麓 麗 麝 麟 麥 麩 麴 麵 麻 麼 麾 黃 黍 黎 黏 黑 黔 默 黛 黜 黝 點 黠 黨 黯 黴 黷 鼇 鼎 鼓 鼕 鼙 鼠 鼬 鼴 鼻 鼾 齊 齋 齒 齜 齟 齡 齣 齦 齪 齬 齲 齷 龍 龐 龔 龜 </p>
+
+                </div>
+            </div>
+        </div>
+    </div>
     <!-- Footer -->
     <footer>
         <div class="container">
